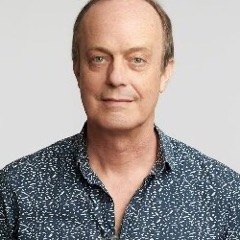
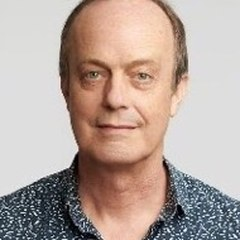
Batch: build times, deposits 700+, Demand restore, Investors slide, team title, face recrops, dock scrim, full linebreak sweep
Appendix + Fast slide carry the real build facts (~18-mo long-lead,
6-12-mo build after site development; "fueled by wood residues").
Deposits corrected to 700+ on Running and Demand. Demand restored to
the premium/paid/oversubscribed title with structural detail trimmed
to the Fast + Epp / Davies citation. Cost Roadmap title to standard
tier, its methodology footnote full-width. Team retitled "Building the
team to scale"; Investors slide ported from investor-overview after
Team (assets copied). Jack, Z Smith, Organschi photos recropped to
center faces. Nav dock scrim strengthened for photo slides. All 16
slides visually swept for title linebreaks.

diff --git a/slides.html b/slides.html
@@ -47,7 +47,7 @@ body.on-cover .pageno{opacity:0}
 body.on-cover .brand,body.on-cover .conf{opacity:0}
 body.on-cover nav.dots{opacity:0;pointer-events:none}
 nav.dots{transition:opacity .35s ease}
-nav.dots{position:fixed;right:0;top:0;bottom:0;z-index:90;display:flex;flex-direction:column;align-items:flex-end;justify-content:center;gap:6px;padding:0 14px 0 2.2rem;background:linear-gradient(270deg,rgba(24,15,8,.85),rgba(24,15,8,0));pointer-events:none}
+nav.dots{position:fixed;right:0;top:0;bottom:0;z-index:90;display:flex;flex-direction:column;align-items:flex-end;justify-content:center;gap:6px;padding:0 14px 0 3rem;background:linear-gradient(270deg,rgba(24,15,8,.94) 55%,rgba(24,15,8,0));pointer-events:none}
 nav.dots button{pointer-events:auto}
 nav.dots button{border:none;background:transparent;cursor:pointer;padding:.14em .5em;border-radius:4px;font-family:'Inter';font-weight:500;font-size:.6rem;line-height:1.3;letter-spacing:.12em;text-transform:uppercase;color:var(--muted);opacity:1;transition:color .25s,opacity .25s,background .25s;position:relative;white-space:nowrap}
 nav.dots button .pn{display:inline-block;margin-left:.55em;font-size:.95em;color:var(--muted);opacity:.9;font-variant-numeric:tabular-nums;letter-spacing:.05em}
@@ -499,7 +499,7 @@ nav.dots button.active::before{content:"";position:absolute;left:-.55rem;top:50%
 .in .ucchart .ucline{stroke-dashoffset:0}
 .ucchart .ucdot{opacity:0;transition:opacity .5s ease 1.4s}
 .in .ucchart .ucdot{opacity:1}
-.ucnote{font-size:.66rem;line-height:1.5;font-style:italic;color:var(--muted);margin-top:1rem;max-width:70ch}
+.ucnote{font-size:.66rem;line-height:1.5;font-style:italic;color:var(--muted);margin-top:1rem;max-width:none}
 .valchart{margin-top:1.2rem}
 .valchart svg{width:100%;display:block;overflow:visible}
 .valchart .vline{stroke-dasharray:1400;stroke-dashoffset:1400;transition:stroke-dashoffset 2s ease .2s}
@@ -764,7 +764,7 @@ nav.dots button.active::before{content:"";position:absolute;left:-.55rem;top:50%
     <p class="lead rv" style="margin-top:1.2rem;max-width:60ch">Speed compounds at both ends of the machine. The mill goes up fast, and what it makes goes up fast.</p>
     <div class="mtgrid rv" style="grid-template-columns:1fr 1fr;gap:1rem 3rem;margin-top:1.2rem">
       <div>
-        <div class="mtitem"><h3>Fast to permit and build</h3><p>The 2-year build is not the point. Site development is what kills large commodity factories: power contracts, interconnection queues, major air permits, ore logistics. A SUPERMILL barely touches that list. It draws <b style="color:var(--cream)">&lt;4 MW</b> from standard industrial service, its own wood residues fuel the process heat, and it has no smelter-class emissions to permit. Then modular construction and off-the-shelf equipment deliver the build itself in <b style="color:var(--cream)">~2 years</b>.</p></div>
+        <div class="mtitem"><h3>Fast to permit and build</h3><p>The 2-year build is not the point. Site development is what kills large commodity factories: power contracts, interconnection queues, major air permits, ore logistics. A SUPERMILL barely touches that list. It draws <b style="color:var(--cream)">&lt;4 MW</b> from standard industrial service, its own wood residues fuel the process heat, and it has no smelter-class emissions to permit. Long-lead equipment runs <b style="color:var(--cream)">~18 months</b>, and modular construction delivers the build itself in <b style="color:var(--cream)">6&ndash;12 months</b> after site development.</p></div>
         <div class="mtitem"><h3>Fed by what America already has</h3><p>Trees are a domestic resource in nearly every state, with feedstock for a SUPERMILL in <b style="color:var(--cream)">48 states</b> and excess capacity in existing sawmills. An ore body is one hole in one place, ~29 years from discovery to production. No imported ore, no strained grid.</p></div>
       </div>
       <div>
@@ -801,7 +801,7 @@ nav.dots button.active::before{content:"";position:absolute;left:-.55rem;top:50%
 
 <section id="s9" class="dark" data-nav="Cost Roadmap">
   <div class="wrap">
-    <h2 class="rv" style="max-width:none;font-size:clamp(1.2rem,2.2vw,1.75rem)">With a Cost Roadmap driving <em>below the cost of steel</em>, and beyond</h2>
+    <h2 class="rv" style="max-width:none">With a Cost Roadmap driving <em>below the cost of steel</em>, and beyond</h2>
     <div class="ucchart rv">
       <svg viewBox="0 0 1000 345" xmlns="http://www.w3.org/2000/svg" role="img" aria-label="Cost roadmap: SUPERWOOD price and manufacturing cost per cubic metre both fall from SuperMill One through SuperMill Two to ChipMill, crossing below the structural steel range; stainless steel sits above">
         <defs><linearGradient id="ssg" x1="0" y1="0" x2="0" y2="1"><stop offset="0" stop-color="rgba(170,175,184,.30)"/><stop offset="1" stop-color="rgba(170,175,184,.16)"/></linearGradient></defs>
@@ -838,7 +838,7 @@ nav.dots button.active::before{content:"";position:absolute;left:-.55rem;top:50%
       <h2 class="rv" style="font-size:clamp(1.8rem,3.4vw,3rem)">The first machine is already running &mdash; <em>and it is oversubscribed</em></h2>
       <div class="machstats rv" style="grid-template-columns:1fr 1fr;gap:.4rem 2.2rem;margin-top:1.8rem">
         <div class="gr"><span>Commercial shipments</span><b>since Dec &rsquo;25</b></div>
-        <div class="gr"><span>Paid online deposits</span><b>800+</b></div>
+        <div class="gr"><span>Paid online deposits</span><b>700+</b></div>
         <div class="gr"><span>SuperMill One pipeline</span><b>$140M+ vs $20M capacity</b></div>
         <div class="gr"><span>Inbound inquiries</span><b>15,000+</b></div>
       </div>
@@ -849,14 +849,14 @@ nav.dots button.active::before{content:"";position:absolute;left:-.55rem;top:50%
 
 <section id="s15" class="dark" data-nav="Demand">
   <div class="wrap">
-    <h2 class="rv" style="max-width:34ch">Demand today is premium and paid &mdash; <em>structural demand is being engineered</em></h2>
+    <h2 class="rv" style="max-width:34ch">Demand today is premium, paid, and oversubscribed &mdash; <em>structural demand is being engineered</em></h2>
     <div class="dstats" style="margin-top:1.4rem">
       <div class="dstat hot rv">
         <div class="n" data-count="15000" data-suffix="+">15,000+</div><h3>Inbound Inquiries</h3><div class="s">with virtually no marketing spend</div>
         <p>Including individual homeowners, builders, national distributors, global manufacturers, top architecture firms, leading engineering firms, data center hyperscalers and other commercial enterprises across industries and geographies.</p>
       </div>
       <div class="dstat hot rv">
-        <div class="n" data-count="800" data-suffix="+">800+</div><h3>Paid Online Deposits</h3><div class="s">reserving a place in line for product</div>
+        <div class="n" data-count="700" data-suffix="+">700+</div><h3>Paid Online Deposits</h3><div class="s">reserving a place in line for product</div>
         <p>All inbound. ~50% from homeowners, representing $14M+ of demand, and ~50% from commercial enterprises, representing $125M+. <i>Note that most commercial accounts we are in discussions with are not making an advance deposit.</i></p>
       </div>
       <div class="dstat rv">
@@ -870,8 +870,8 @@ nav.dots button.active::before{content:"";position:absolute;left:-.55rem;top:50%
     </div>
     <div class="msrow rv" style="grid-template-columns:repeat(3,1fr);margin-top:1.6rem;border-top:1px solid var(--line);padding-top:1.1rem">
       <div class="ms now"><h3>Now &mdash; premium &amp; luxury</h3><p>Interiors, furniture, marine, specialty. These buyers pay premium prices at retail cadence: deposits and purchase orders, not decade-long offtakes. That is what the signals above are.</p></div>
-      <div class="ms"><h3>In development &mdash; application engineering</h3><p>Structural applications require certification and application engineering, underway with structural engineers <b style="color:var(--cream)">Fast + Epp</b> and <b style="color:var(--cream)">Don Davies</b>. The beam pathway is designed: hybrid SUPERWOOD-glulam beams, SUPERWOOD in the outer laminations only, double a glulam&rsquo;s bending strength.</p></div>
-      <div class="ms"><h3>At scale &mdash; structural</h3><p>Beams and structural components, where offtake-scale commitments are the norm. They unlock as certified components land and the cost roadmap drives below steel.</p></div>
+      <div class="ms"><h3>In development &mdash; application engineering</h3><p>Structural applications require certification and application engineering, underway with structural engineers <b style="color:var(--cream)">Fast + Epp</b> and <b style="color:var(--cream)">Don Davies</b>.</p></div>
+      <div class="ms"><h3>At scale &mdash; structural</h3><p>Beams and structural components, where offtake-scale commitments are the norm, unlocked as cost drives below steel.</p></div>
     </div>
   </div>
 </section>
@@ -945,7 +945,7 @@ nav.dots button.active::before{content:"";position:absolute;left:-.55rem;top:50%
 
 <section id="s7" class="dark" data-nav="Team">
   <div class="wrap">
-    <h2 class="rv">Top-tier commercial and scientific leadership</h2>
+    <h2 class="rv">Building the team <em>to scale</em></h2>
     <div class="team rv">
       <div class="person" tabindex="0">
         <img loading="eager" decoding="sync" class="pic" src="assets/team-alex7-c.jpg" alt="Alex Lau"><div class="nm">Alex Lau</div><div class="ro">CEO / Co-Founder</div>
@@ -995,6 +995,38 @@ nav.dots button.active::before{content:"";position:absolute;left:-.55rem;top:50%
         <img loading="eager" decoding="sync" src="assets/adv-bradshaw-c.jpg" alt="Allan Bradshaw"><div><div class="nm">Allan Bradshaw</div><div class="ro">Manufacturing &amp; Wood Industry</div></div>
         <div class="bio-pop"><b>Allan Bradshaw — Manufacturing &amp; Wood Industry</b><ul><li>A 30-year career at Weyerhaeuser culminating as VP of Capital Projects, where he led a $1.5B fleet overhaul.</li><li>Ran technology development and scaling operations from R&amp;D to mass-market sales, led manufacturing for TrusJoist (its fastest-growing product), and ran operations for the entire East Coast.</li><li>Deep relationships throughout the wood-processing industry.</li></ul></div>
       </div>
+    </div>
+  </div>
+</section>
+
+<section id="s8" class="dark" data-nav="Investors">
+  <div class="wrap">
+    <h2 class="rv">Backed by <em>deeply sophisticated</em> investors</h2>
+    <div class="invpanel rv">
+      <h3>SELECT INSTITUTIONAL INVESTORS</h3>
+      <div class="invlogos">
+        <img loading="lazy" class="sm" src="assets/logo-arpae.png" alt="ARPA-E">
+        <img loading="lazy" class="lg" src="assets/logo-newindustrial.png" alt="The New Industrial Corporation">
+        <img loading="lazy" class="lg" src="assets/logo-builders.png" alt="Builders Vision" style="height:3.7rem;max-width:15.5rem">
+        <img loading="lazy" src="assets/logo-jll3.png" alt="JLL">
+        <img loading="lazy" src="assets/logo-grantham.png" alt="Grantham Foundation">
+        <i class="brk"></i>
+        <span class="invword"><b>Smart Aviation Futures</b><small>Delta Air Lines</small></span>
+        <span class="invword row"><img loading="lazy" src="assets/logo-echelon.png" alt="Echelon mark" style="height:1.5rem"><b>Echelon</b></span>
+        <span class="invword"><b>MUUS</b><small>Climate Partners</small></span>
+        <span class="invword row"><img loading="lazy" src="assets/logo-hugoneu.png" alt="Hugo Neu" style="height:1.9rem;border-radius:4px"><b>Hugo Neu Corporation</b></span>
+      </div>
+    </div>
+    <div class="adv-head rv" style="margin-top:1.8rem;padding-top:1.4rem">Select Individual Investors</div>
+    <div class="invgrid rv">
+      <div class="invc"><img loading="lazy" src="assets/inv2/inv-rockwell-new.jpg" alt="John Rockwell"><div><h4>John Rockwell</h4><p>CEO of four companies, all with successful exits. Founder and Managing Director of Element Partners, an $800M venture capital and PE firm, and Managing Director of Advent's Silicon Valley office.</p></div></div>
+      <div class="invc"><img loading="lazy" src="assets/inv2/inv-mcglashan-new.jpg" alt="Bill McGlashan"><div><h4>Bill McGlashan</h4><p>Former co-founder, managing partner of TPG Growth and TPG Rise, leading investments into Uber and AirBnB, and board member of Fender, Creative Artists Agency, and Common Sense Media.</p></div></div>
+      <div class="invc"><img loading="lazy" src="assets/inv2/inv-koerner-new.jpg" alt="Jacqueline Koerner"><div><h4>Jacqueline Koerner</h4><p>Founder, Co-Chair of Ecotrust Canada. Vice-Chair, CIFAR. International development and microfinance consultant. Background in sustainable forestry and anthropology.</p></div></div>
+      <div class="invc"><img loading="lazy" src="assets/inv2/inv-jacobs-gc.jpg" alt="Scott Jacobs"><div><h4>Scott Jacobs</h4><p>Co-founder of McKinsey's Cleantech practice. Co-founder and former CEO of Generate Capital, one of the largest project-finance firms in the climate sector. MBA Harvard, Baker Scholar.</p></div></div>
+      <div class="invc"><img loading="lazy" src="assets/inv2/inv-bosa-new.jpg" alt="Colin Bosa"><div><h4>Colin Bosa</h4><p>Co-founder of Axiom, one of the top general contractors in BC. CEO, Bosa Properties, one of the top high-rise developers in BC.</p></div></div>
+      <div class="invc"><img loading="lazy" src="assets/inv2/inv-sant-new.jpg" alt="Roger Sant"><div><h4>Roger Sant</h4><p>Co-Founder, former CEO, and Chairman Emeritus of AES Corporation, growing it to one of the largest independent power producers in the world. Former Chair, World Wildlife Fund.</p></div></div>
+      <div class="invc"><img loading="lazy" src="assets/inv2/inv-stotmeister-new.jpg" alt="Jochen Stotmeister"><div><h4>Jochen Stotmeister</h4><p>Chairman of Sto Corporation, one of the largest premium cladding solutions companies in the world.</p></div></div>
+      <div class="invc"><img loading="lazy" src="assets/inv2/inv-sansone-new.jpg" alt="Nick Sansone"><div><h4>Nick Sansone</h4><p>CEO of Sansone Group, the #5-ranked commercial real estate developer in the U.S. and one of the largest data center developers.</p></div></div>
     </div>
   </div>
 </section>
@@ -1050,8 +1082,8 @@ nav.dots button.active::before{content:"";position:absolute;left:-.55rem;top:50%
     <div class="cmp-wrap rv"><table class="cmp">
       <thead><tr><th></th><th class="hero">SUPERMILL</th><th>Steel minimill (EAF)</th><th>Aluminum smelter</th></tr></thead>
       <tbody>
-        <tr><td>Time to develop + build</td><td class="hero"><b>&lt;3 years</b> <small>&mdash; light site development + ~2-yr build</small></td><td><b>10+ years</b> <small>&mdash; site, permits, power, build (Apple Grove: 6 yrs announce-to-ship alone)</small></td><td><b>10+ years</b> <small>&mdash; first metal ~2030 at Inola; power deal still open</small></td></tr>
-        <tr><td>Power required</td><td class="hero"><b>&lt;4 MW</b> <small>&mdash; process heat self-fueled by wood residues</small></td><td><b>~300 MVA-class grid connection</b> <small>&mdash; one EAF draws 200&ndash;300 MVA, with severe flicker</small></td><td><b>&gt;1 GW continuous</b> <small>&mdash; a city&rsquo;s worth</small></td></tr>
+        <tr><td>Time to develop + build</td><td class="hero"><b>&lt;3 years</b> <small>&mdash; long-lead equipment ~18 months; build 6&ndash;12 months after site development</small></td><td><b>10+ years</b> <small>&mdash; site, permits, power, build (Apple Grove: 6 yrs announce-to-ship alone)</small></td><td><b>10+ years</b> <small>&mdash; first metal ~2030 at Inola; power deal still open</small></td></tr>
+        <tr><td>Power required</td><td class="hero"><b>&lt;4 MW</b> <small>&mdash; process heat fueled by wood residues</small></td><td><b>~300 MVA-class grid connection</b> <small>&mdash; one EAF draws 200&ndash;300 MVA, with severe flicker</small></td><td><b>&gt;1 GW continuous</b> <small>&mdash; a city&rsquo;s worth</small></td></tr>
         <tr><td>Volume output</td><td class="hero"><b>~24,000 m&sup3;/yr</b> <small>SUPERWOOD boards (36M sf)</small></td><td>~347,000 m&sup3;/yr <small>sheet steel (~3M t)</small></td><td>~278,000 m&sup3;/yr <small>primary aluminum (750K t)</small></td></tr>
         <tr><td>Cost to build</td><td class="hero"><b>$300M</b></td><td>$1.9B <small>(SDI Sinton)</small> &ndash; $4.0B <small>(Nucor Apple Grove)</small></td><td>~$4B <small>(Century/EGA Inola)</small></td></tr>
         <tr><td>Annual EBITDA</td><td class="hero"><b>~$208M</b> <small>&mdash; engineering model, 65% of projected revenue</small></td><td>~$0.6&ndash;1.2B <small>&mdash; realized, over the cycle (SDI, 14&ndash;25%)</small></td><td>~$340M <small>&mdash; record 2025 (~17%); cyclical</small></td></tr>
